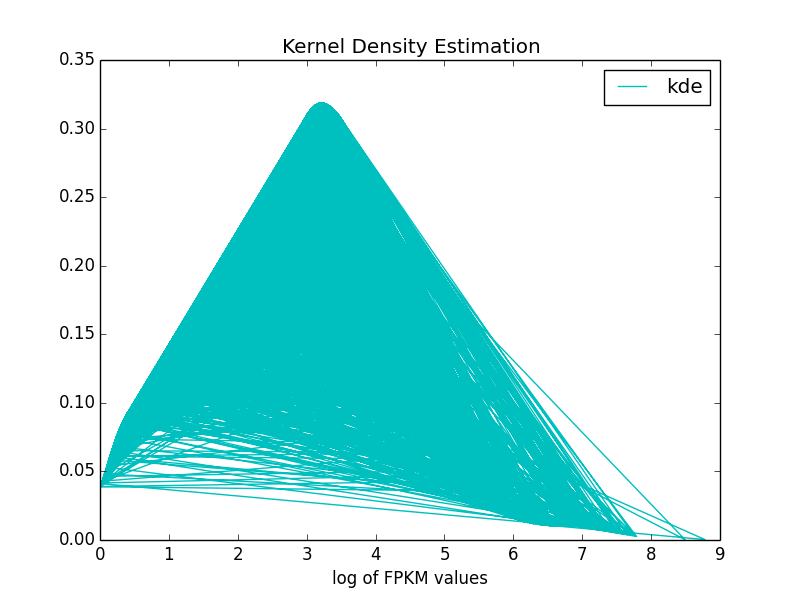
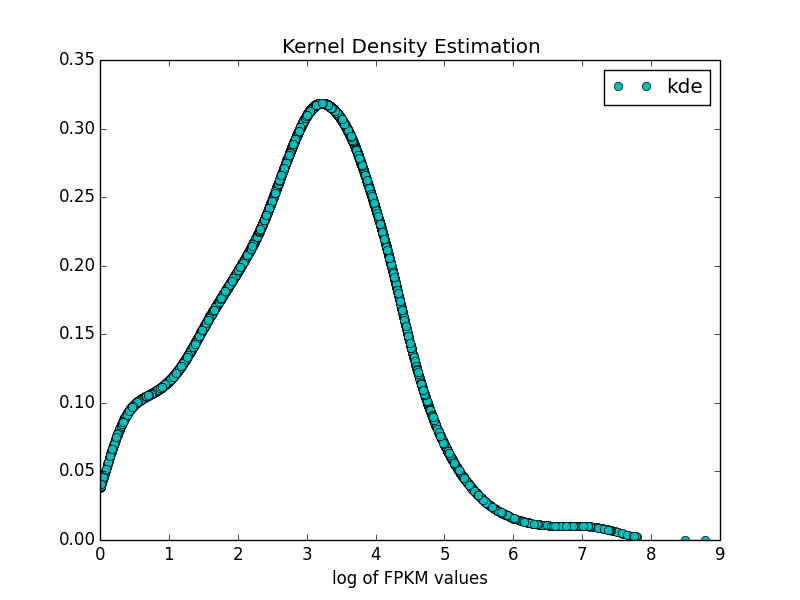
Density plot is updated to scatter plot

Changed region(s): [[0.125, 0.15, 0.875, 0.9], [0.75, 0.12, 0.8125, 0.15]]

diff --git a/day3/day3-lunch/answer3.py b/day3/day3-lunch/answer3.py
@@ -28,7 +28,7 @@ plt.figure()
 #plt.hist(FPKM, bins=20, color = "w")
 
 # plot estimated density
-plt.plot(FPKM, denP, label='kde', color= "c")
+plt.plot(FPKM, denP, 'o',label='kde', color= "c")
 plt.title('Kernel Density Estimation')
 plt.legend()
 plt.xlabel("log of FPKM values")
